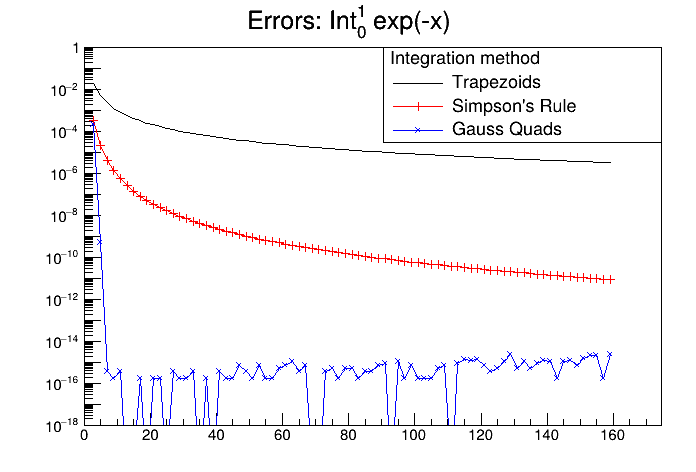
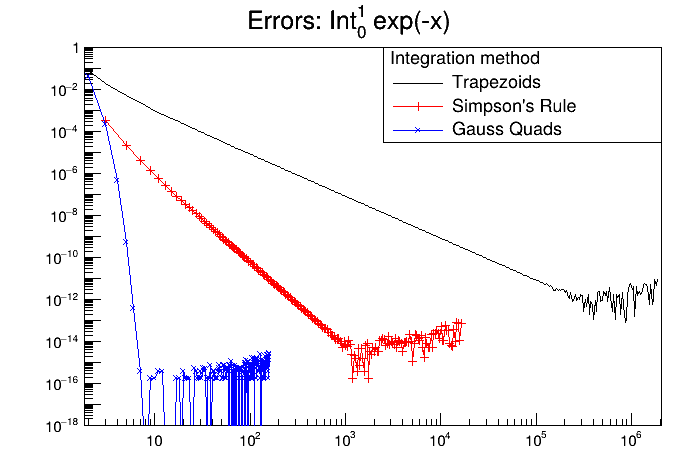
Add exponential-spacing of N values, to allow efficient computation of Nvalues in the 1e6 range for trapezoids

diff --git a/test_integration.cpp b/test_integration.cpp
@@ -25,8 +25,38 @@ double fcn_indef_integral(double x) { return -1.*exp(-1.*x); }
 // 1. simpson's rule needs at least 3.
 // 2. simpson's rule can only work with an odd number of points, so both 'N_min' and 'N_max' must be odd. 
 // 3. if 'N_max' is more than the biggest order of gauss quad-weights given in 'gauss_quad_points_[N].dat', then an error will be thrown. 
-const int N_min = 3;
-const int N_max = 159; 
+
+vector<int> Get_integration_steps(int n_min, const int npts, const bool odd_only=false) 
+{
+    vector<int> Nvals; 
+
+    if (odd_only && n_min % 2 == 0) n_min +=1; 
+
+    for (int i=0; i<npts; i++) {
+        Nvals.push_back(odd_only ? n_min + 2*i : n_min + i); 
+    }
+    return Nvals; 
+}
+
+vector<int> Get_integration_steps_exponential(int n_min, const int npts, const double step=1.05, const bool odd_only=false)
+{
+    if (odd_only && n_min % 2 == 0) n_min +=1; 
+
+    vector<int> Nvals{ n_min }; 
+
+    double N_double = (double)Nvals.back(); 
+
+    for (int i=0; i<npts; i++) {
+    
+        N_double *= step; 
+        int new_val = (int)round(N_double);
+        //for small step sizes, this may not produce a new integers if the starting ints are small.
+        //this bit of logic is to avoid having the same integer be double-counted
+        if ( new_val > Nvals.back() ) Nvals.push_back( (odd_only && new_val % 2==0) ? new_val+1 : new_val ); 
+    }
+
+    return Nvals; 
+}
 
 //integration limits: 
 const double x_min = 0.; 
@@ -41,23 +71,29 @@ const char* path_outgraphic = "Errors.png";
 int main(int argc, char* argv[])
 {
     //create a vector of evenly-spaced, odd N-values
-    vector<int> N_vals; 
-    for (int N=N_min; N<=N_max; N += 2) { N_vals.push_back(N); } 
+    vector<int> Nvals_trap  = Get_integration_steps_exponential(2, 400, 1.035, false);  
+    vector<int> Nvals_simp  = Get_integration_steps_exponential(3, 250, 1.035, true); 
+    vector<int> Nvals_gauss = Get_integration_steps(2, 160); 
 
     //initialize the gaussian integrator
     GaussInt gauss_int(path_quadpoints); 
 
+    const double integral_analytical = fcn_indef_integral(x_max) - fcn_indef_integral(x_min); 
+
     //h-vals and erorrs are drawn in a log-log plot. 
     vector<double> error_trap{}, error_simp{}, error_gauss{};  
+    
+    for (int N : Nvals_trap) error_trap.push_back(
+        fabs((trapez (fcn, N, x_min,x_max) - integral_analytical) / integral_analytical)
+    );
 
-    for (int N : N_vals) {
+    for (int N : Nvals_simp) error_simp.push_back(
+        fabs((simpson(fcn, N, x_min,x_max) - integral_analytical) / integral_analytical)
+    );
 
-        double analytical = fcn_indef_integral(x_max) - fcn_indef_integral(x_min); 
-
-        error_trap .push_back( fabs((trapez (fcn, N, x_min,x_max) - analytical) / analytical) ); 
-        error_simp .push_back( fabs((simpson(fcn, N, x_min,x_max) - analytical) / analytical) ); 
-        error_gauss.push_back( fabs((gauss_int.Integral(fcn, N, x_min,x_max) - analytical) / analytical) ); 
-    }   
+    for (int N : Nvals_gauss) error_gauss.push_back(
+        fabs((gauss_int.Integral(fcn, N, x_min,x_max) - integral_analytical) / integral_analytical)
+    );
 
     //find the minimum and maximum 
     double y_min{1e30}, y_max{-1e30}; 
@@ -71,26 +107,25 @@ int main(int argc, char* argv[])
     for (auto y : error_simp)  find_min_max(y); 
     for (auto y : error_gauss) find_min_max(y); 
 
-    vector<double> N_vals_double; 
-    for (int N : N_vals) N_vals_double.push_back((double)N); 
+    auto Make_vec_double = [](const vector<int>& V) { 
+        vector<double> Vd; 
+        for (int i : V) Vd.push_back((double)i); 
+        return Vd; 
+    }; 
 
-    for (int i=0; i<error_trap.size(); i++) {
-        printf("n, trap,simp,gauss:  %3i : %-.4e, %-.4e, %-.4e\n", 
-            N_vals[i], 
-            error_trap[i],
-            error_simp[i],
-            error_gauss[i]
-        ); 
-    }
-    
+    vector<double>&& Nvals_double_trap  = Make_vec_double(Nvals_trap); 
+    vector<double>&& Nvals_double_simp  = Make_vec_double(Nvals_simp); 
+    vector<double>&& Nvals_double_gauss = Make_vec_double(Nvals_gauss); 
+
     auto canv = new TCanvas; 
 
     //now, create the graphs
-    auto graph_trap   = new TGraph( N_vals.size(), N_vals_double.data(), error_trap.data() );
-    auto graph_simp   = new TGraph( N_vals.size(), N_vals_double.data(), error_simp.data() );
-    auto graph_extrap = new TGraph( N_vals.size(), N_vals_double.data(), error_gauss.data() );
+    auto graph_trap   = new TGraph( Nvals_trap.size(),  Nvals_double_trap.data(),  error_trap.data() );
+    auto graph_simp   = new TGraph( Nvals_simp.size(),  Nvals_double_simp.data(),  error_simp.data() );
+    auto graph_extrap = new TGraph( Nvals_gauss.size(), Nvals_double_gauss.data(), error_gauss.data() );
 
     //set the log scale for x & y 
+    gPad->SetLogx(1); 
     gPad->SetLogy(1); 
 
     //set margin so we can see the histo titles
